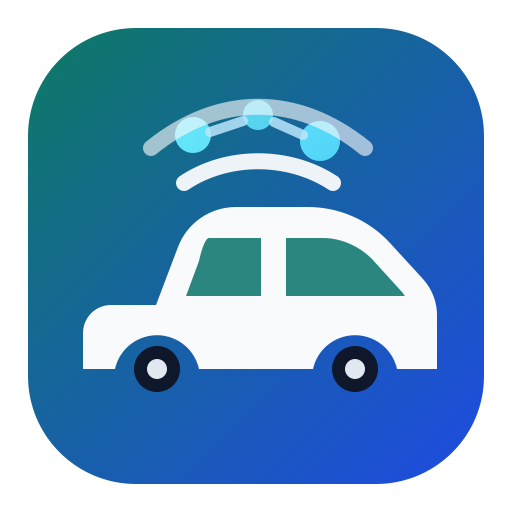
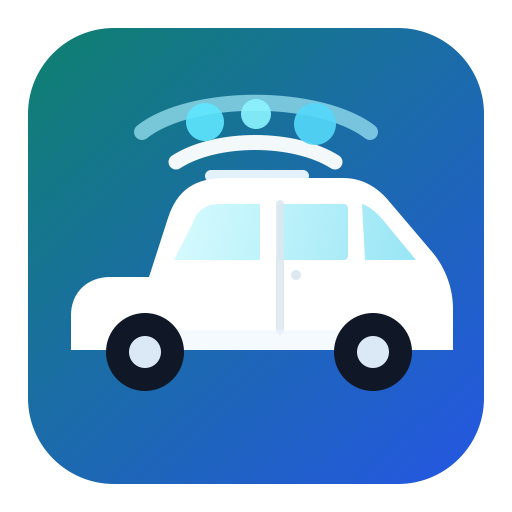
Release v1.0.16 preserve runtime metadata

diff --git a/tests/test_generator_and_entities.py b/tests/test_generator_and_entities.py
@@ -1825,7 +1825,9 @@ class GeneratorAndEntityTests(unittest.TestCase):
 
     def test_missing_runtime_metadata_repair_issue_uses_prepare_command(self) -> None:
         install_homeassistant_stubs()
-        repairs = importlib.import_module("custom_components.hymer_connect_metadata.repairs")
+        repairs = importlib.import_module(
+            "custom_components.hymer_connect_metadata.repair_issues"
+        )
         issue_registry = importlib.import_module("homeassistant.helpers.issue_registry")
 
         issue_registry.created_issues.clear()

diff --git a/custom_components/hymer_connect_metadata/__init__.py b/custom_components/hymer_connect_metadata/__init__.py
@@ -56,7 +56,7 @@ from .dashboard import (
     write_dashboard_yaml,
 )
 from .diagnostics import build_slot_debug_report
-from .repairs import (
+from .repair_issues import (
     async_create_missing_runtime_metadata_issue,
     async_delete_missing_runtime_metadata_issue,
 )

diff --git a/custom_components/hymer_connect_metadata/CHANGELOG.md b/custom_components/hymer_connect_metadata/CHANGELOG.md
@@ -7,6 +7,20 @@ and this project adheres to [Semantic Versioning](https://semver.org/spec/v2.0.0
 
 ## [Unreleased]
 
+## [1.0.16] - 2026-05-04
+
+### Fixed
+
+- **Preserve local runtime metadata during HACS updates** — adds the HACS
+  `persistent_directory` setting for `data/` so locally generated metadata and
+  OAuth client material are backed up and restored when HACS replaces the
+  integration folder.
+- **Repairs helper module auto-load** — renames the internal Repair issue helper
+  module so Home Assistant no longer treats it as an invalid Repairs platform at
+  startup.
+- **Campervan brand asset** — updates the integration icon/logo vehicle
+  silhouette to read as a campervan rather than a car.
+
 ## [1.0.15] - 2026-05-04
 
 ### Added

diff --git a/CHANGELOG.md b/CHANGELOG.md
@@ -6,5 +6,6 @@ The authoritative integration changelog lives in:
 
 Current repository state:
 
-- `1.0.15` — adds local Home Assistant/HACS brand assets and documents the HACS
-  migration step for users moving from Jan Tiedemann / BetaHydri's repository
+- `1.0.16` — preserves local runtime metadata during HACS updates, fixes the
+  internal Repair issue helper module name, and updates the brand asset to a
+  campervan-style icon/logo
